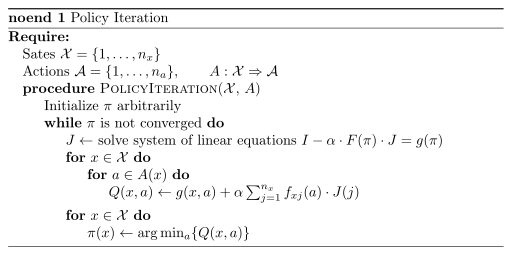
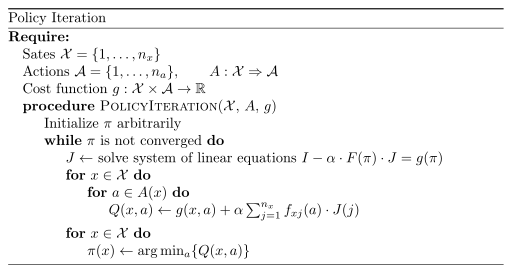
Update pseudocode to include cost function as parameter

Changed region(s): [[0.0, 0.0275, 1.0, 0.8235], [0.0, 0.8235, 1.0, 0.9882], [0.4062, 0.2471, 0.5625, 0.302]]

diff --git a/source-code/Pseudocode/Value-Iteration/Value-Iteration.tex b/source-code/Pseudocode/Value-Iteration/Value-Iteration.tex
@@ -7,7 +7,12 @@
 \usepackage[T1]{fontenc}    % this is needed for correct output of umlauts in pdf
 \usepackage{amssymb,amsmath,amsfonts} % nice math rendering
 \usepackage{braket} % needed for \Set
-\usepackage[noend]{algorithm,algpseudocode}
+\usepackage{caption}
+\usepackage{algorithm}
+\usepackage[noend]{algpseudocode}
+
+\DeclareCaptionFormat{myformat}{#3}
+\captionsetup[algorithm]{format=myformat}
 
 \begin{document}
 \begin{preview}
@@ -16,10 +21,10 @@
         \Require
         \Statex Sates $\mathcal{X} = \{1, \dots, n_x\}$
         \Statex Actions $\mathcal{A} = \{1, \dots, n_a\},\qquad A: \mathcal{X} \Rightarrow \mathcal{A}$
+        \Statex Cost function $g: \mathcal{X} \times \mathcal{A} \rightarrow \mathbb{R}$
         % TODO: g? \alpha?
-        % Q?
         % f_ij(a)
-        \Procedure{ValueIteration}{$\mathcal{X}$, $A$}
+        \Procedure{ValueIteration}{$\mathcal{X}$, $A$, $g$}
             \State Initialize $J, J': \mathcal{X} \rightarrow \mathbb{R}_0^+$ arbitrarily
             \While{$J$ is not converged}
                 \State $J' \gets J$
@@ -35,7 +40,7 @@
         \EndProcedure
         \end{algorithmic}
     \caption{Calculate value function}
-    \label{alg:calculateLegendreSymbol}
+    \label{alg:value-iteration}
     \end{algorithm}
 \end{preview}
 \end{document}

diff --git a/source-code/Pseudocode/Policy-Iteration/Policy-Iteration.tex b/source-code/Pseudocode/Policy-Iteration/Policy-Iteration.tex
@@ -7,7 +7,12 @@
 \usepackage[T1]{fontenc}    % this is needed for correct output of umlauts in pdf
 \usepackage{amssymb,amsmath,amsfonts} % nice math rendering
 \usepackage{braket} % needed for \Set
-\usepackage[noend]{algorithm,algpseudocode}
+\usepackage{caption}
+\usepackage{algorithm}
+\usepackage[noend]{algpseudocode}
+
+\DeclareCaptionFormat{myformat}{#3}
+\captionsetup[algorithm]{format=myformat}
 
 \begin{document}
 \begin{preview}
@@ -16,7 +21,8 @@
         \Require
         \Statex Sates $\mathcal{X} = \{1, \dots, n_x\}$
         \Statex Actions $\mathcal{A} = \{1, \dots, n_a\},\qquad A: \mathcal{X} \Rightarrow \mathcal{A}$
-        \Procedure{PolicyIteration}{$\mathcal{X}$, $A$}
+        \Statex Cost function $g: \mathcal{X} \times \mathcal{A} \rightarrow \mathbb{R}$
+        \Procedure{PolicyIteration}{$\mathcal{X}$, $A$, $g$}
             \State Initialize $\pi$ arbitrarily
             \While{$\pi$ is not converged}
                 \State $J \gets$ solve system of linear equations $I - \alpha \cdot F(\pi) \cdot J = g(\pi)$
